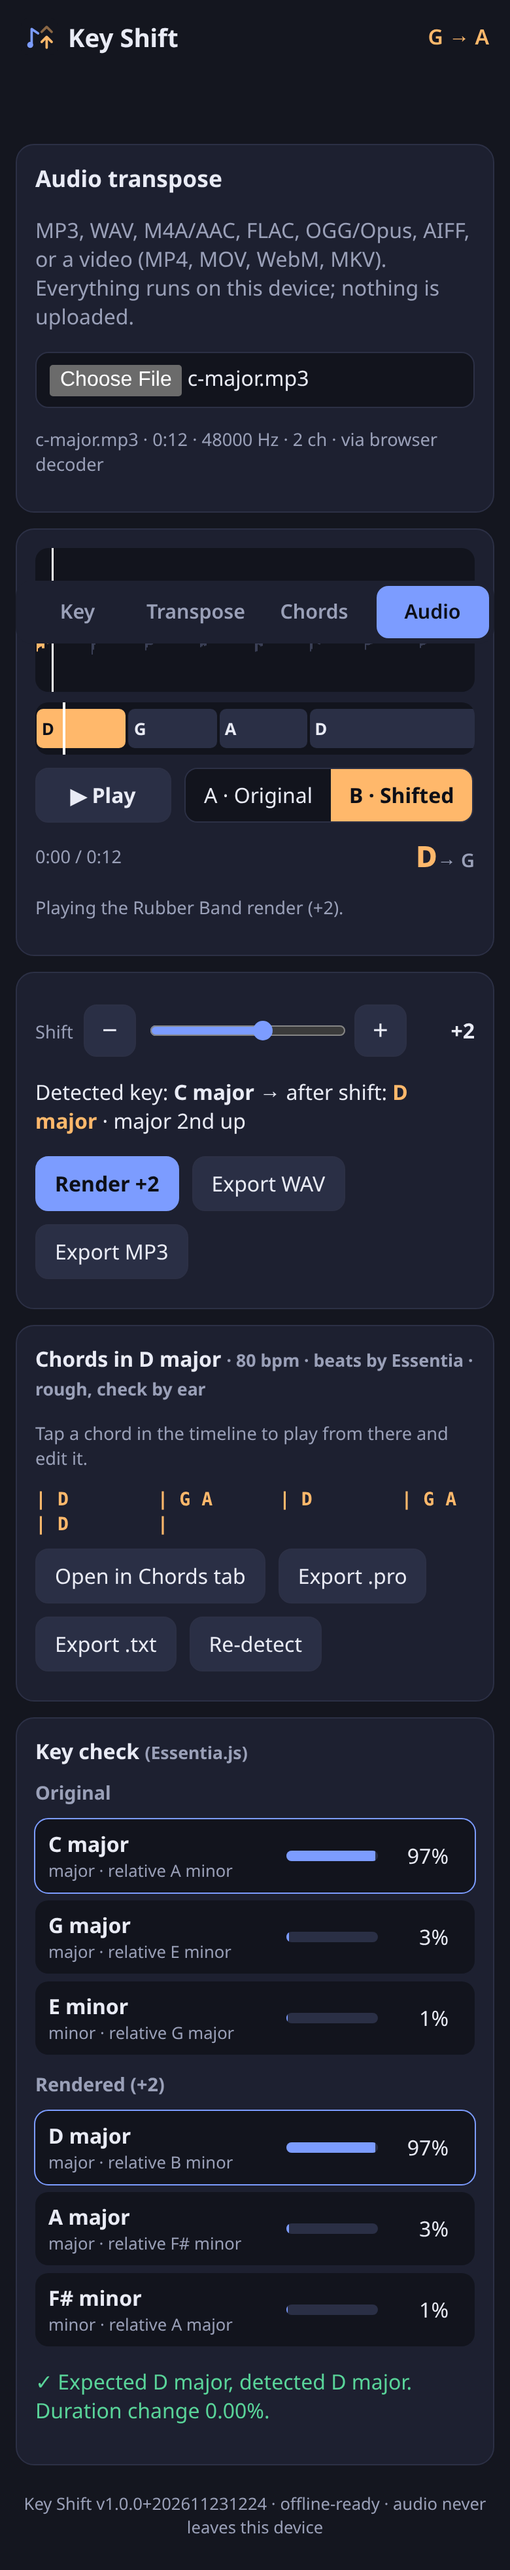
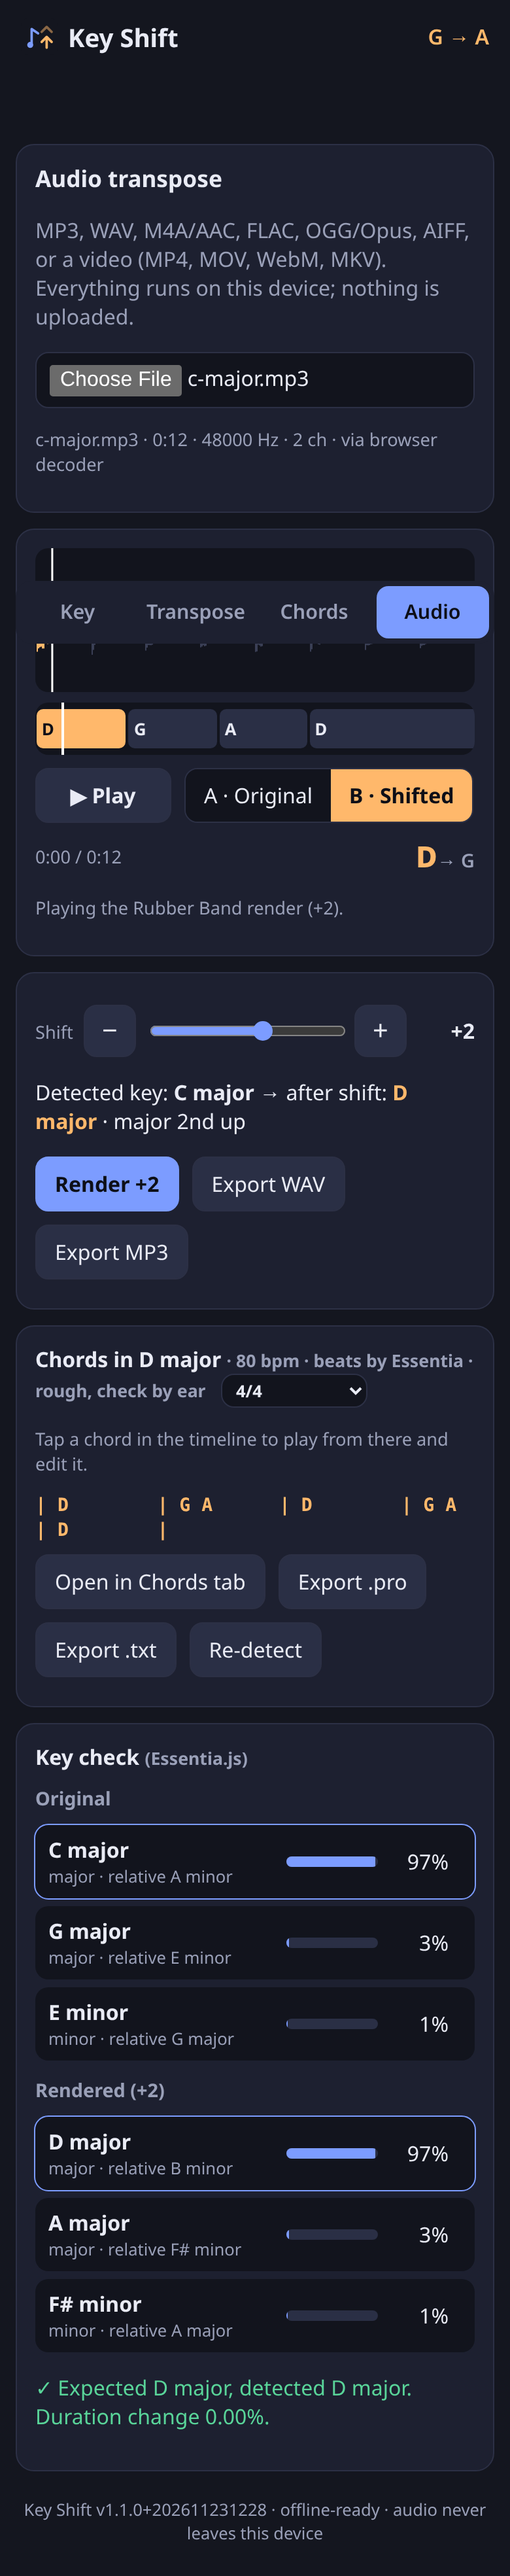
Smoke test reads version from package.json

diff --git a/e2e/smoke.spec.ts b/e2e/smoke.spec.ts
@@ -1,4 +1,6 @@
 import { test, expect } from '@playwright/test';
+import { readFileSync } from 'node:fs';
+const PKG_VERSION = JSON.parse(readFileSync('package.json', 'utf8')).version as string;
 import { writeFileSync, mkdirSync, statSync } from 'node:fs';
 import { renderProgression, C_MAJOR_PROG } from '../src/audio/synth';
 import { encodeWav, encodeMp3 } from '../src/audio/encode';
@@ -19,7 +21,7 @@ test('app loads, shows version, all tabs work, audio round-trip', async ({ page 
   const shot = (n: string) => page.screenshot({ path: `screenshots/${info.project.name}-${n}.png`, fullPage: true });
 
   await page.goto('./');
-  await expect(page.getByTestId('version')).toContainText('Key Shift v1.0.0');
+  await expect(page.getByTestId('version')).toContainText(`Key Shift v${PKG_VERSION}+`);
   // Key tab: text detection of the sample sheet (G major)
   await expect(page.getByTestId('key-results').first().locator('li').first()).toContainText('G major');
   // Audio key detection
